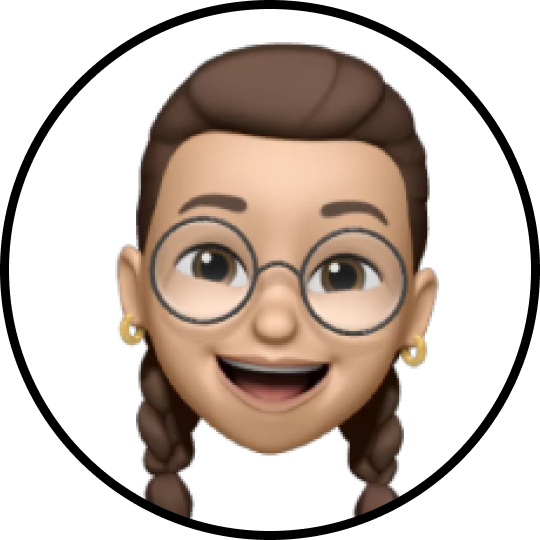
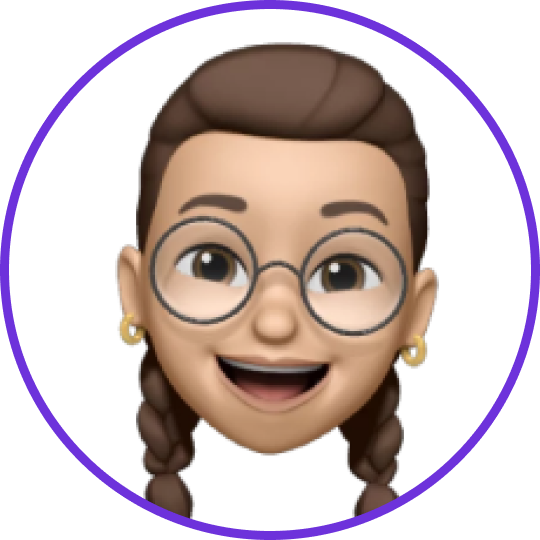
feat: 시뮬레이션창 수정 중 + 채팅 기능 추가

Changed region(s): [[0.0, 0.0, 1.0, 1.0]]

diff --git a/cob/src/style/SImulation.css b/cob/src/style/SImulation.css
@@ -8,14 +8,18 @@
     width: 35%;
     display: flex;
     flex-direction: column;
-    border-right: 2px solid #ccc;
+    border-right: 2px solid #6D32DB;
     padding: 5rem 1rem 2rem 1rem;
     box-sizing: border-box;
 }
 
+label {
+    color: #6D32DB;
+}
+
 .form-section {
     width: 100%;
-    margin: 1rem 0 1rem;
+    margin: 1rem 0 2rem;
 }
 
 .selects {
@@ -23,7 +27,7 @@
     max-width: 250px;
     margin: 1.5rem 0 0;
     padding: 1rem 0.5rem;
-    border: 1px solid #ccc;
+    border: 1px solid #6D32DB;
     border-radius: 4px;
     appearance: none;
     -moz-appearance: none;
@@ -52,12 +56,20 @@
 
 /* 오른쪽 채팅 스타일 */
 .simulation-chat {
-    width: 90%;
-    padding: 20px;
+    width: 110%;
+    padding: 2rem 2rem 3rem;
     display: flex;
-    position: relative;
     flex-direction: column;
-    background-color: #f5f5f5;
+    align-items: flex-start;
+    position: relative;
+    overflow: auto;
+    margin-bottom: 70px; 
+}
+
+.chat-message-container {
+    display: flex;
+    flex-direction: column;
+    width: 100%;
 }
 
 .chat-message {
@@ -70,58 +82,104 @@
     border-top: none;
 }
 
-.chat-input input {
-    width: calc(100% - 20px);
-    padding: 10px;
-    margin-top: auto;
+.chat-input-form {
+    position: sticky;
+    bottom: 0;
+    left: 0;
+    right: 0;
+    display: flex;
+    align-items: center;
+    justify-content: space-between;
+    padding: 0.5rem 1rem;
+    background-color: #6D32DB;
+    box-shadow: 0px -4px 6px -1px rgba(0,0,0,0.1);
+    border-radius: 20px;
+    z-index: 1000;
+}
+
+.chat-input-form input {
+    flex-grow: 1;
+    margin-right: 0.5rem;
+    padding: 0.75rem 1rem;
+    border-radius: 4px;
+    border: 1px solid #ffffff;
+    background-color: #ffffff;
+    font-family: 'OneMobileTitle';
+}
+
+.send-button {
+    padding: 0.75rem 1rem;
+    margin-left: 0.5rem; /* 버튼과 입력 필드 간의 간격 */
+    background-color: #ffffff;
+    color: #6D32DB;
+    border: none;
+    border-radius: 4px;
+    cursor: pointer;
+    font-family: 'OneMobileTitle';
+    font-size: 1rem;
+    
 }
 
 .chat-message-left {
-    background-color: #D9D9D9;
+    background-color: #ffffff;
     color: #000000;
+    border: 3px solid #6D32DB;
+    box-shadow: 0px 4px 6px -1px rgba(0,0,0,0.1);
     padding: 10px 20px;
     border-radius: 50px 50px 50px 0px;
     margin: 10px 0;
-    max-width: 80%;
+    max-width: 100%;
     align-self: flex-start;
-    width: auto;
+    width: fit-content;
 }
 
 .chat-message-right {
-    background-color: #D9D9D9;
-    color: #000000;
+    background-color: #6D32DB;
+    color: #ffffff;
     padding: 10px 20px;
     border-radius: 50px 50px 0px 50px;
     margin: 10px 0;
-    max-width: 80%;
-    width: auto;
+    max-width: 100%;
+    width: fit-content;
     align-self: flex-end;
 }
 
+.chat-message-enter {
+    animation: enterMessage 0.5s ease-out forwards;
+}
+
+@keyframes enterMessage {
+    from {
+        opacity: 0;
+        transform: translateY(20px);
+    }
+    to {
+        opacity: 1;
+        transform: translateY(0);
+    }
+}
+
 .tutor-container {
-    position: absolute; /* 위치 조정을 위해 절대 위치 설정 */
-    top: 20px; /* 상단에서의 위치 */
-    right: 20px; /* 우측에서의 위치 */
-    display: flex; /* 이미지와 텍스트를 위한 flex 컨테이너 */
-    flex-direction: column; /* 아이템을 수직으로 쌓음 */
-    align-items: center; /* 가운데 정렬 */
+    width: 100%;
+    display: flex;
+    flex-direction: column;
+    align-items: center;
+    margin-bottom: 2rem;
+    border-bottom: 2px solid #6D32DB;
+    padding-bottom: 2rem;
 }
 
 .tutorImage {
-    width: 100px; /* 이미지의 너비 */
-    height: 100px; /* 이미지의 높이 */
-    border-radius: 50%; /* 원형 이미지를 만들기 위해 둥근 모서리 설정 */
-    object-fit: cover; /* 이미지가 div에 꽉 차게 */
-    position: absolute; /* 위치 조정을 위해 절대 위치 설정 */
-    top: 20px; /* 상단에서의 위치 */
-    right: 20px; /* 우측에서의 위치 */
-    border: 3px solid #fff; /* 이미지 주변에 테두리 추가 */
-    box-shadow: 0 4px 8px rgba(0, 0, 0, 0.1); /* 이미지에 그림자 효과 추가 */
+    width: 100px;
+    height: 100px;
+    border-radius: 50%;
+    object-fit: cover;
+    box-shadow: 0 4px 8px rgba(0, 0, 0, 0.1);
 }
 
 .ai-coach-text {
-    margin-top: 0.5rem; /* 이미지와 텍스트 사이의 간격 */
-    color: #000; /* 텍스트 색상 */
-    font-size: 1rem; /* 텍스트 크기 */
-    text-align: center; /* 가운데 정렬 */
+    margin-top: 0.5rem;
+    color: #6D32DB;
+    font-size: 1rem;
+    text-align: center;
 }

diff --git a/cob/src/pages/Simulation.js b/cob/src/pages/Simulation.js
@@ -1,10 +1,28 @@
-import React from 'react';
+import React, { useState, useRef } from 'react';
 import { Link } from 'react-router-dom';
 import '../style/Simulation.css';
 
 import tutorImage from '../assets/images/tutorImage.png';
 
 export default function Simulation() {
+    const [messages, setMessages] = useState([]);
+    const [inputMessage, setInputMessage] = useState('');
+
+    const chatContainerRef = useRef(null);
+
+    const handleSendMessage = (e) => {
+        e.preventDefault();
+        if (inputMessage.trim() !== '') {
+            setMessages(messages => [...messages, { text: inputMessage, sender: 'right', id: Date.now() }]);
+            setInputMessage('');
+
+            // 새 메시지가 추가되고, 화면 업데이트가 된 후에 스크롤을 맨 아래로 이동시킵니다.
+            setTimeout(() => {
+                chatContainerRef.current.scrollTop = chatContainerRef.current.scrollHeight;
+            }, 0);
+        }
+    };
+
     return (
         <div className="simulation-container">
             {/* <div className="simulation-header">
@@ -17,6 +35,7 @@ export default function Simulation() {
                     <select class="selects" id="userType">
                         <option value="customer">상사</option>
                         <option value="colleague">동료</option>
+                        <option value="employee">거래처 직원</option>
                     </select>
                 </div>
                 <div className="form-section">
@@ -33,12 +52,15 @@ export default function Simulation() {
                 <div className="form-section">
                     <label htmlFor="method">반응 방식 :</label><br/>
                     <select class="selects" id="method">
-                        <option value="visitType">직접 수렴하는 자세</option>
+                        <option value="favorable">호의적인 자세</option>
+                        <option value="stiff">완강한 자세</option>
+                        <option value="negative">부정적인 자세</option>
+                        <option value="gentle">온화한 자세</option>
                     </select>
                 </div>
             </form>
             
-            <div className="simulation-chat">
+            <div className="simulation-chat" ref={chatContainerRef}>
                 <div className="tutor-container">
                     <img src={tutorImage} alt="AI Coach" className="tutorImage" />
                     <span className="ai-coach-text">AI COACH</span>
@@ -56,10 +78,21 @@ export default function Simulation() {
                     <div className="chat-message-right">
                         <p>저번에 맡겨주신 코코주식회사가 기획서 작성과 관련해서 의견 여쭙고 싶은 게 있어요.</p>
                     </div>
-            </div>
-                    <div className="chat-input">
-                        <input type="text" placeholder="적절한 답변을 입력해보세요" />
-                    </div>
+                    {messages.map(message => (
+                        <div key={message.id} className={`chat-message-${message.sender} chat-message-enter`}>
+                            <p>{message.text}</p>
+                        </div>
+                    ))}
+                </div>
+                    <form className="chat-input-form" onSubmit={handleSendMessage}>
+                        <input 
+                        type="text" 
+                        placeholder="적절한 답변을 입력해보세요"
+                        value={inputMessage}
+                        onChange={(e) => setInputMessage(e.target.value)} 
+                        />
+                        <button type="submit" className="send-button">입력</button>
+                    </form>
             </div>
         </div>
     )

diff --git a/cob/public/index.html b/cob/public/index.html
@@ -24,7 +24,7 @@
       work correctly both with client-side routing and a non-root public URL.
       Learn how to configure a non-root public URL by running `npm run build`.
     -->
-    <title>React App</title>
+    <title>COB</title>
   </head>
   <body>
     <noscript>You need to enable JavaScript to run this app.</noscript>
